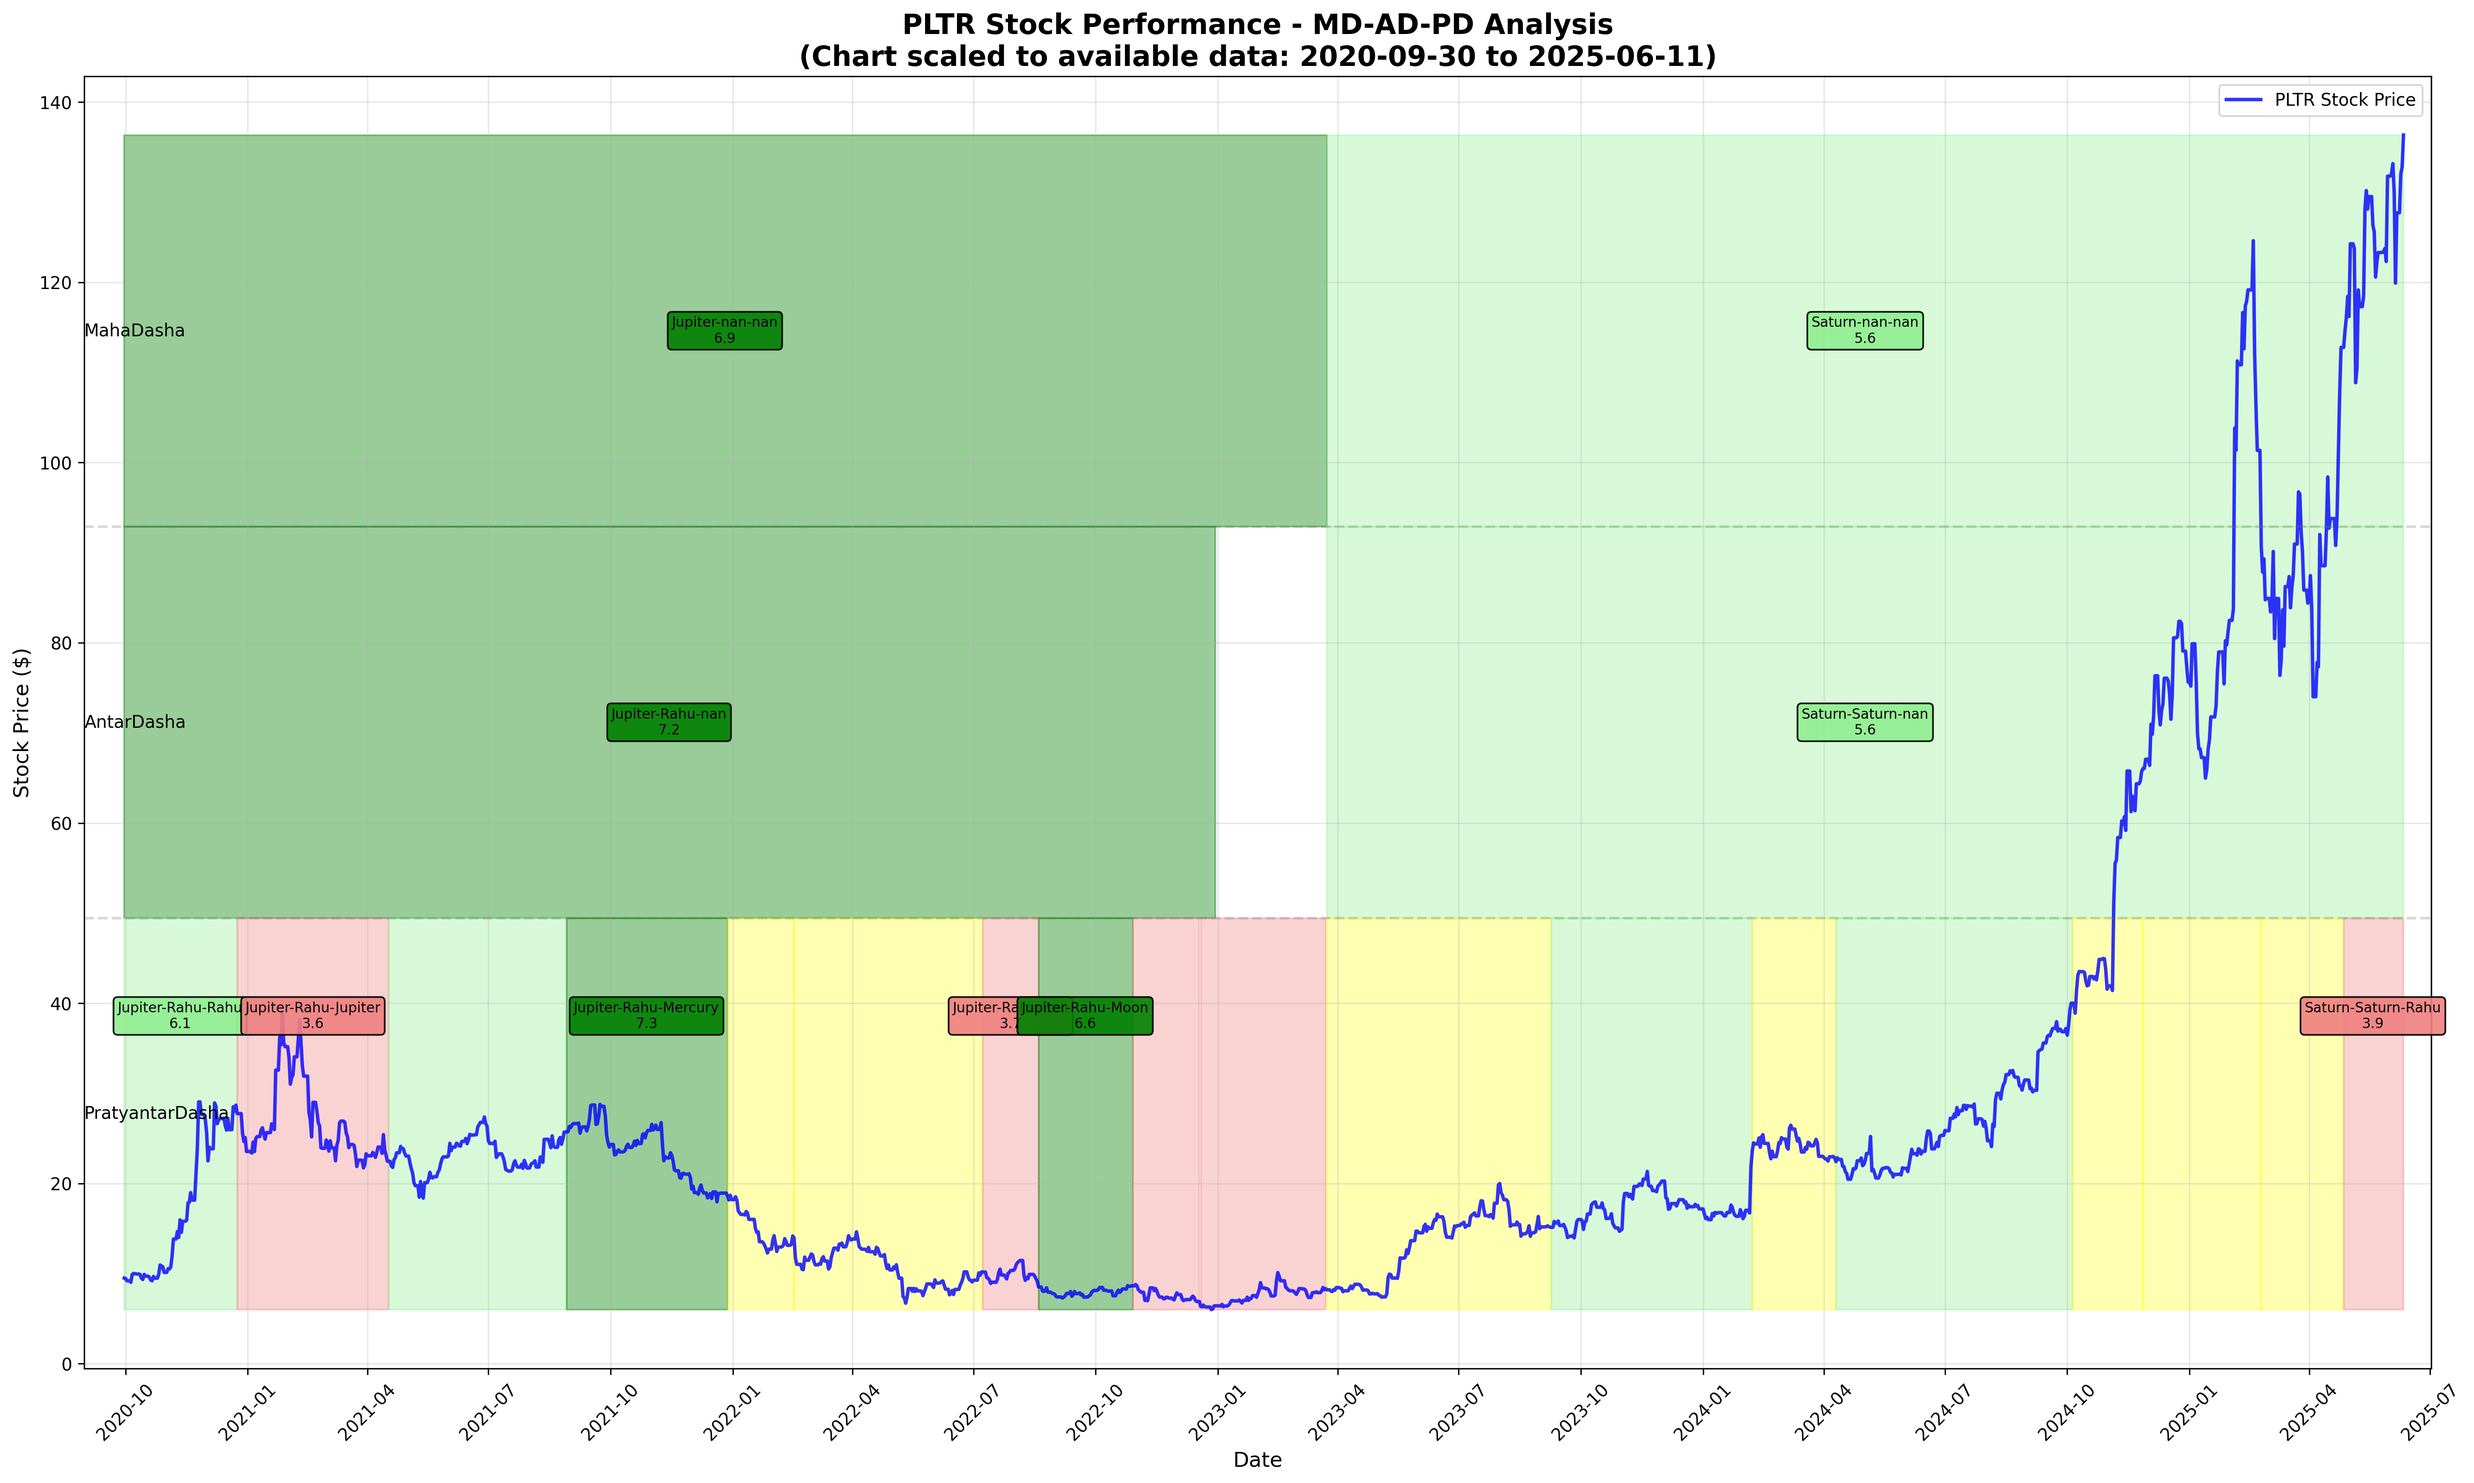
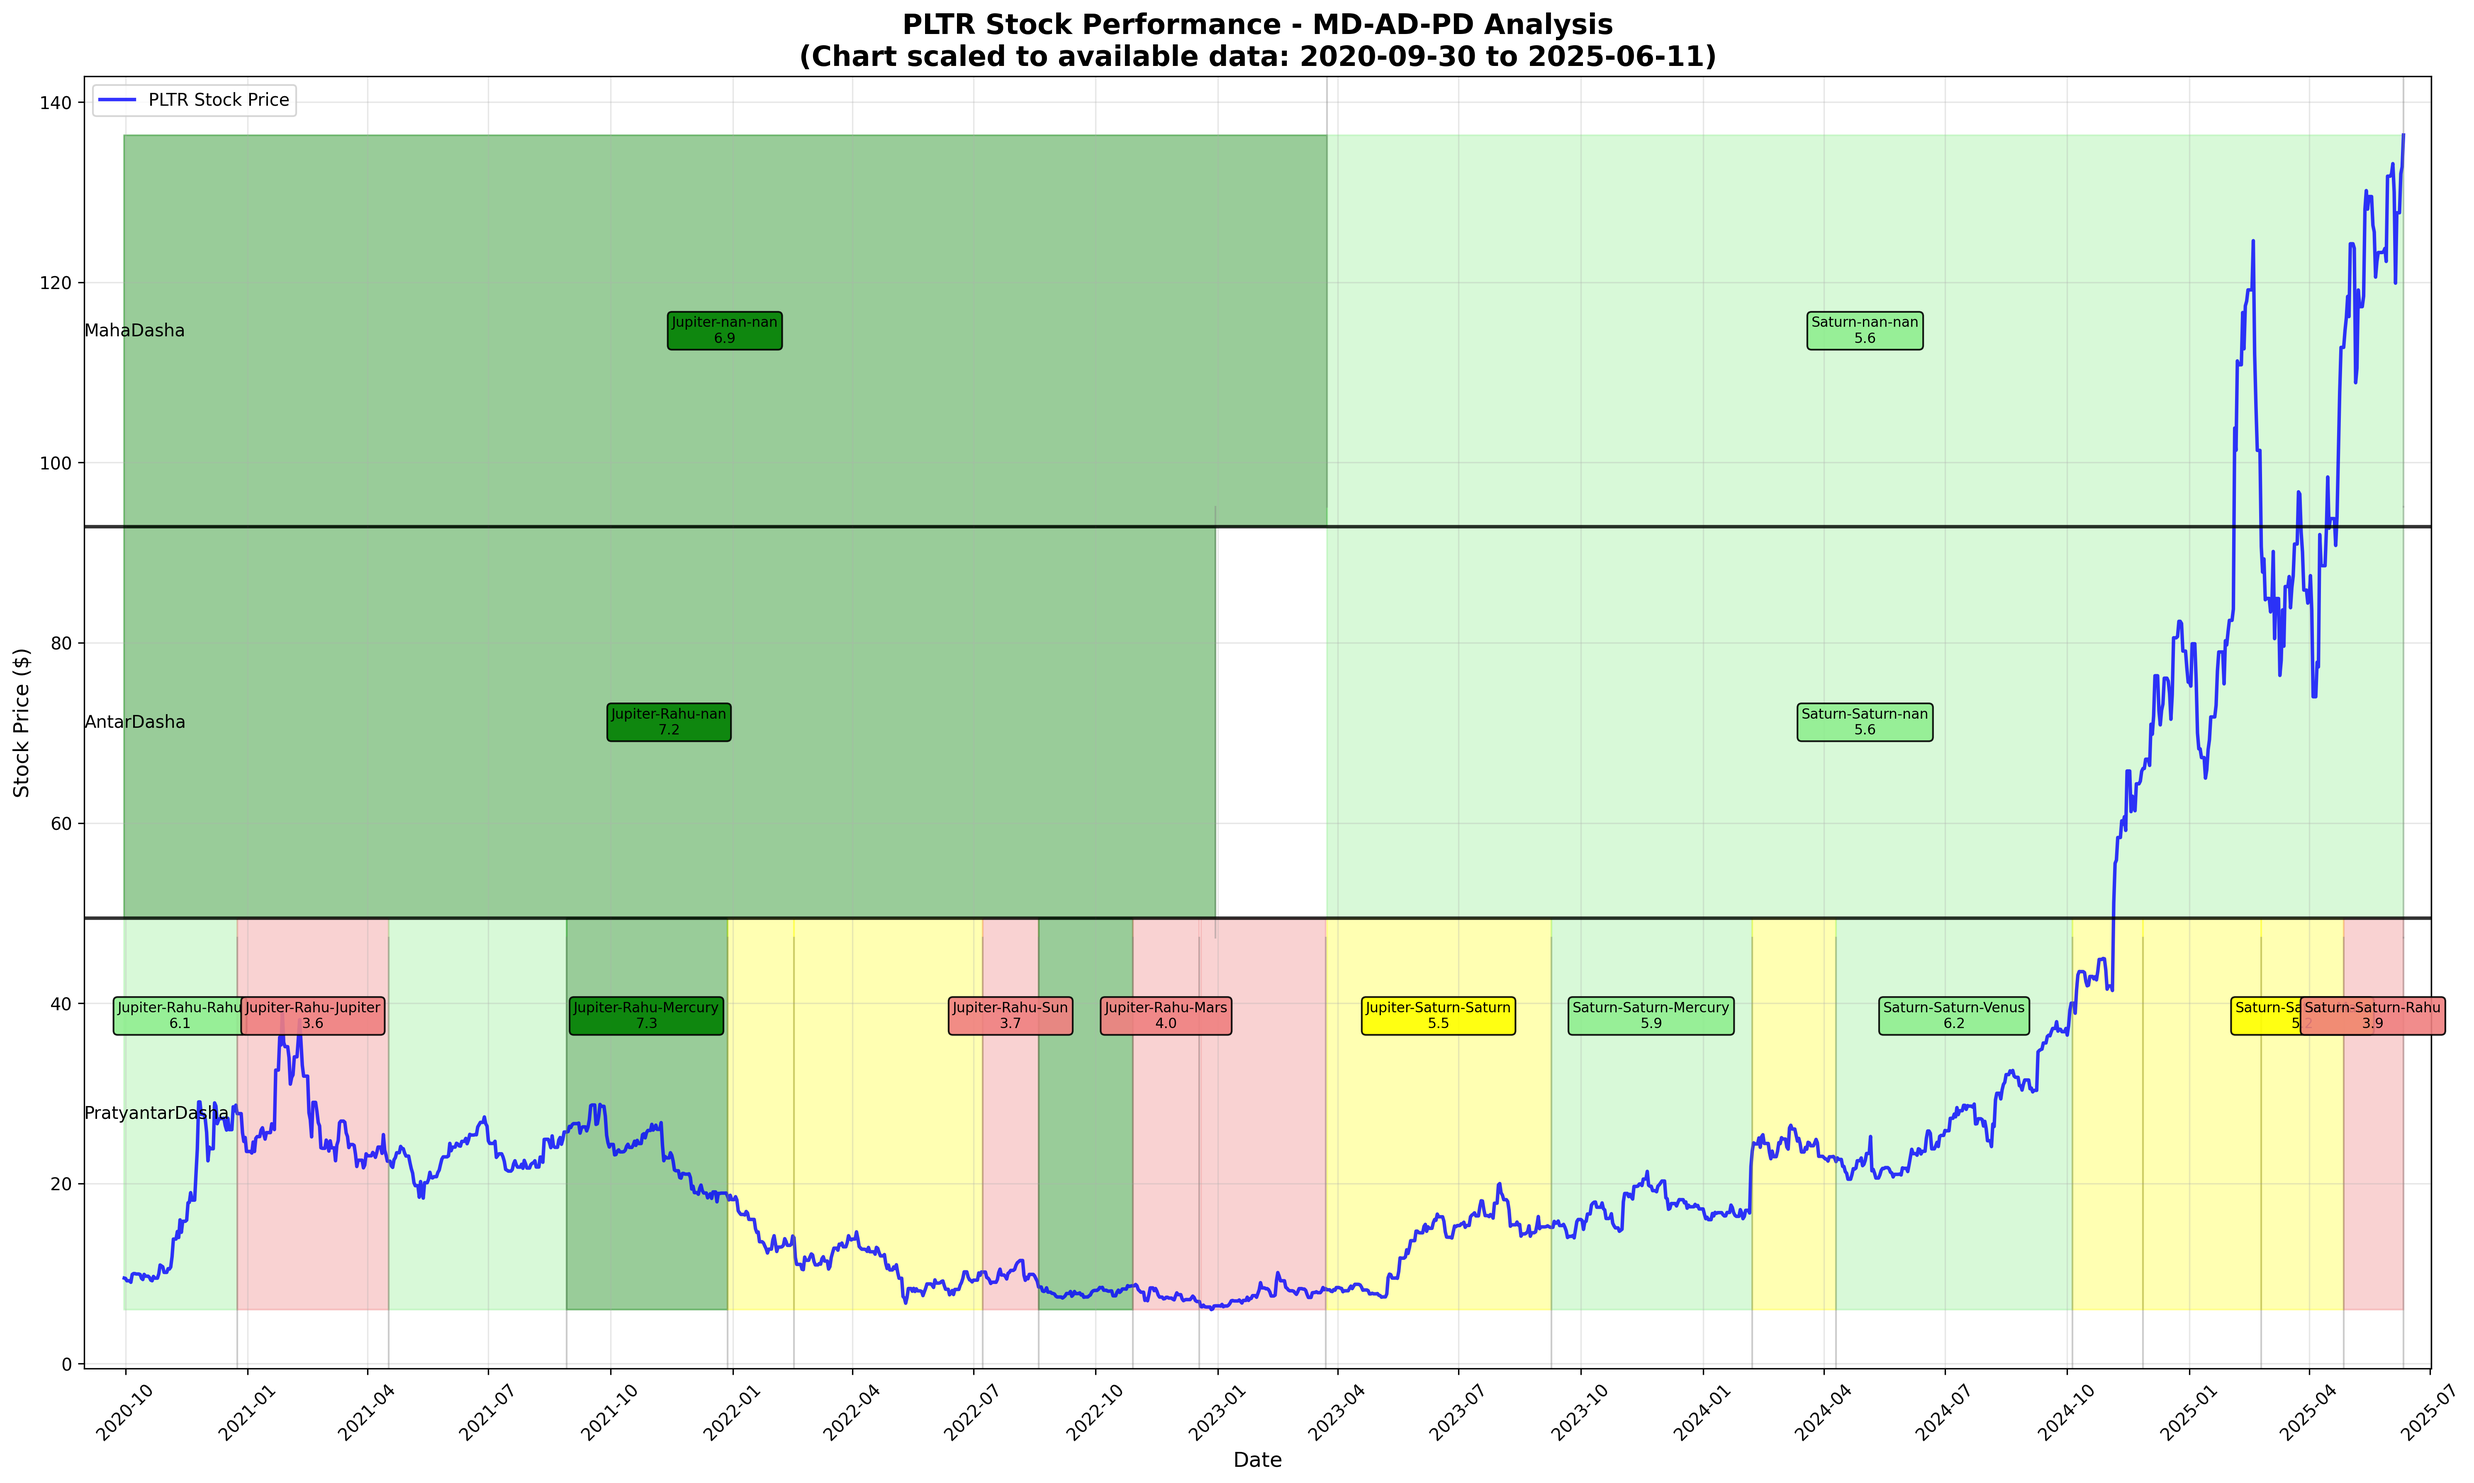
final cleaning up of output in charts

diff --git a/dasha_stock_analysis.py b/dasha_stock_analysis.py
@@ -444,47 +444,91 @@ class EnhancedDashaStockAnalyzer:
             periods = sorted(periods, key=lambda x: x['start_date'])
             
             # Different logic for different period types
-            if period_type == 'MD-AD-PD':  # Pratyantardashas - show 6 strongest non-consecutive
+            if period_type == 'MD-AD-PD':  # Pratyantardashas - show up to 10 strongest, well-distributed
                 # Always include first and last
                 first_period = periods[0]
                 last_period = periods[-1]
                 
-                # For middle periods, get the strongest non-consecutive periods
+                # For middle periods, get all periods sorted by strength
                 middle_periods = periods[1:-1] if len(periods) > 2 else []
                 middle_periods_sorted = sorted(middle_periods, 
                                              key=lambda x: abs(x.get('auspiciousness', 5.0) - 5.0), 
                                              reverse=True)
                 
-                # Select non-consecutive periods
-                selected_periods = [first_period]
+                # Calculate total time span
+                total_span = (last_period['end_date'] - first_period['start_date']).days
+                min_gap = max(15, total_span / 20)  # Adaptive gap based on total span
                 
-                for candidate in middle_periods_sorted:
-                    # Check if this candidate is consecutive with any already selected period
-                    is_consecutive = False
-                    for selected in selected_periods:
-                        if periods_overlap(candidate, selected, min_gap_days=15):  # Smaller gap for pratyantardashas
-                            is_consecutive = True
-                            break
+                # Divide the total span into sections
+                num_sections = 8  # Number of sections to aim for
+                section_length = total_span / num_sections
+                
+                # Initialize sections
+                sections = [[] for _ in range(num_sections)]
+                
+                # Distribute periods into sections
+                for period in middle_periods:
+                    period_mid = period['start_date'] + (period['end_date'] - period['start_date']) / 2
+                    section_idx = int((period_mid - first_period['start_date']).days / section_length)
+                    if 0 <= section_idx < num_sections:
+                        sections[section_idx].append(period)
+                
+                # Select strongest period from each section
+                selected_periods = [first_period]  # Start with first period
+                
+                # First pass: Get strongest from each section
+                for section in sections:
+                    if section:
+                        # Sort section by auspiciousness
+                        section_sorted = sorted(section,
+                                             key=lambda x: abs(x.get('auspiciousness', 5.0) - 5.0),
+                                             reverse=True)
+                        
+                        # Try to add strongest period that doesn't overlap
+                        for period in section_sorted:
+                            is_consecutive = False
+                            for selected in selected_periods:
+                                if periods_overlap(period, selected, min_gap_days=min_gap):
+                                    is_consecutive = True
+                                    break
+                            
+                            if not is_consecutive:
+                                selected_periods.append(period)
+                                break
+                
+                # Second pass: Fill remaining slots with strongest periods that maintain spacing
+                remaining_slots = 10 - len(selected_periods) - 1  # -1 for last_period
+                if remaining_slots > 0:
+                    # Get all unselected periods
+                    used_periods = set(selected_periods)
+                    remaining_candidates = [p for p in middle_periods_sorted if p not in used_periods]
                     
-                    if not is_consecutive:
-                        selected_periods.append(candidate)
-                        # Stop when we have 6 total (including first and last)
-                        if len(selected_periods) >= 5:  # 5 because we'll add last_period
-                            break
+                    for candidate in remaining_candidates:
+                        is_consecutive = False
+                        for selected in selected_periods:
+                            if periods_overlap(candidate, selected, min_gap_days=min_gap):
+                                is_consecutive = True
+                                break
+                        
+                        if not is_consecutive:
+                            selected_periods.append(candidate)
+                            remaining_slots -= 1
+                            if remaining_slots <= 0:
+                                break
                 
-                # Add last period if it's not already included and not consecutive with the last selected
+                # Add last period if it's not consecutive or if we have room
                 if last_period not in selected_periods:
-                    # Check if last period is consecutive with any selected period
                     is_consecutive = False
                     for selected in selected_periods:
-                        if periods_overlap(last_period, selected, min_gap_days=15):
+                        if periods_overlap(last_period, selected, min_gap_days=min_gap):
                             is_consecutive = True
                             break
                     
-                    if not is_consecutive or len(selected_periods) < 6:
+                    if not is_consecutive or len(selected_periods) < 10:
                         selected_periods.append(last_period)
                 
-                periods_to_show = selected_periods
+                # Sort final selection by date
+                periods_to_show = sorted(selected_periods, key=lambda x: x['start_date'])
                 
             else:  # Mahadashas and Antardashas - show all with overlap filtering
                 # Always show first and last periods
@@ -540,6 +584,11 @@ class EnhancedDashaStockAnalyzer:
                                [y_top, y_top], 
                                color=color, alpha=alpha)
                 
+                # Add vertical line at period end to separate consecutive periods
+                plt.axvline(x=effective_end, ymin=(y_bottom-min(prices))/(max(prices)-min(prices)), 
+                          ymax=(y_top-min(prices))/(max(prices)-min(prices)), 
+                          color='gray', linewidth=1, alpha=0.4)
+                
                 # Add label if this period should be shown
                 if period in periods_to_show:
                     mid_date = effective_start + (effective_end - effective_start) / 2
@@ -561,9 +610,12 @@ class EnhancedDashaStockAnalyzer:
         plot_section(antardashas, ad_y_base, section_height, 0.02, 'MD-AD')
         plot_section(pratyantardashas, pd_y_base, section_height, 0.02, 'MD-AD-PD')
         
+        # Add section boundaries and labels
+        # Dark, highly visible boundary lines
+        plt.axhline(y=md_y_base, color='black', linestyle='-', linewidth=2, alpha=0.8)
+        plt.axhline(y=ad_y_base, color='black', linestyle='-', linewidth=2, alpha=0.8)
+        
         # Add section labels
-        plt.axhline(y=md_y_base, color='gray', linestyle='--', alpha=0.3)
-        plt.axhline(y=ad_y_base, color='gray', linestyle='--', alpha=0.3)
         plt.text(chart_start_date, md_y_base + section_height/2, 'MahaDasha', 
                 verticalalignment='center', fontsize=10)
         plt.text(chart_start_date, ad_y_base + section_height/2, 'AntarDasha', 
